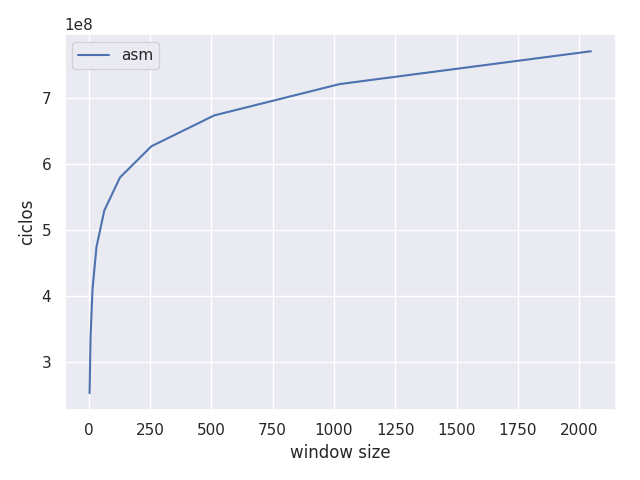
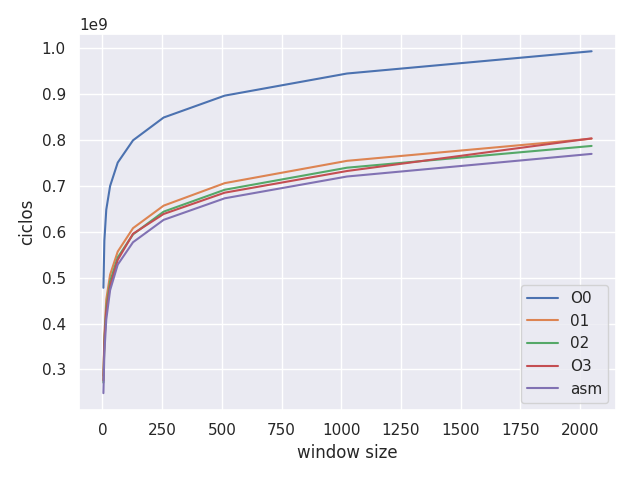
test vocoder y fft

diff --git a/tester/test_vocoder.c b/tester/test_vocoder.c
@@ -64,6 +64,51 @@ void distintos_windows() {
 	float a[250*1024];
 	float b[250*1024];
 	float c[250*1024];
+	for (int k = 0; k < 4; ++k)
+	{
+		unsigned int sizeA = (k+1)*250*1024/4;
+
+	for (int i = 0; i < tamanios; ++i)
+	{
+		printf("Completado %f\n", (100.0*i)/tamanios);
+
+		unsigned long mean = 0;
+		unsigned int window_size = 4<<(i);
+
+		printf("window_size  = %d\n", window_size);
+
+		for (int j = 0; j < repeticiones; ++j)
+		{
+			MEDIR_TIEMPO_START(start);
+			vocoder_asm(a,b,window_size,c,sizeA);
+			MEDIR_TIEMPO_STOP(end);
+			mean += end - start;
+		}
+
+		mean = mean/tamanios;
+		fprintf(fptr, "%lu ", mean );
+	}
+
+	fprintf(fptr,"\n");
+	}
+	
+	fclose(fptr); 
+}
+
+void distintas_windows_compC() {
+	precalcular_rotaciones();
+
+	FILE *fptr;
+	fptr = fopen("tester/vocoder_window_compC.txt","a");
+
+	unsigned long start, end;
+
+	int tamanios = 10;
+	int repeticiones = 50;
+
+	float a[250*1024];
+	float b[250*1024];
+	float c[250*1024];
 
 	unsigned int sizeA = 250*1024; //fijo
 
@@ -93,9 +138,10 @@ void distintos_windows() {
 }
 
 
+
 int main()
 {
-	distintos_windows();
+	distintas_windows_compC();
 	return 0;
 }
 

diff --git a/tester/temp.py b/tester/temp.py
@@ -76,12 +76,31 @@ plt.show()
 
 
 
-data = np.loadtxt("vocoder_window.txt")
-plt.plot(2**(np.arange(10)+2), data, label = "asm")
+data = np.loadtxt("vocoder_window_compC.txt")
+plt.plot(2**(np.arange(10)+2), data[0], label = "O0")
+plt.plot(2**(np.arange(10)+2), data[1], label = "01")
+plt.plot(2**(np.arange(10)+2), data[2], label = "02")
+plt.plot(2**(np.arange(10)+2), data[3], label = "O3")
+plt.plot(2**(np.arange(10)+2), data[4], label = "asm")
+
 
 
 plt.legend()
 plt.xlabel("window size") 
+plt.ylabel("ciclos")
+plt.tight_layout()
+plt.show()
+
+data = np.loadtxt("data_fft.txt")
+plt.plot(2**(np.arange(10)+2), data[0], label = "O0")
+plt.plot(2**(np.arange(10)+2), data[1], label = "01")
+plt.plot(2**(np.arange(10)+2), data[2], label = "02")
+plt.plot(2**(np.arange(10)+2), data[3], label = "O3")
+plt.plot(2**(np.arange(10)+2), data[4], label = "asm")
+
+
+plt.legend()
+plt.xlabel("size") 
 plt.ylabel("ciclos")
 plt.tight_layout()
 plt.show()

diff --git a/tester/test_fft.c b/tester/test_fft.c
@@ -1,0 +1,50 @@
+#include "../src/efectos.h"
+#include "../src/tiempo.h"
+
+#include <stdio.h>
+
+void distintas_windows_compC();
+int main(int argc, char const *argv[])
+{
+	distintas_windows_compC();
+	return 0;
+}
+
+void distintas_windows_compC() {
+	precalcular_rotaciones();
+
+	FILE *fptr;
+	fptr = fopen("tester/data_fft.txt","a");
+
+	unsigned long start, end;
+
+	int tamanios = 10;
+	int repeticiones = 50;
+
+	float a[2048];
+	complejo b[2048];
+
+	for (int i = 0; i < tamanios; ++i)
+	{
+		printf("Completado %f\n", (100.0*i)/tamanios);
+
+		unsigned long mean = 0;
+		unsigned int window_size = 4<<(i);
+
+		printf("size  = %d\n", window_size);
+
+		for (int j = 0; j < repeticiones; ++j)
+		{
+			MEDIR_TIEMPO_START(start);
+			ditfft2_asm(a,window_size,b);
+			MEDIR_TIEMPO_STOP(end);
+			mean += end - start;
+		}
+
+		mean = mean/tamanios;
+		fprintf(fptr, "%lu ", mean );
+	}
+
+	fprintf(fptr,"\n");	
+	fclose(fptr); 
+}
